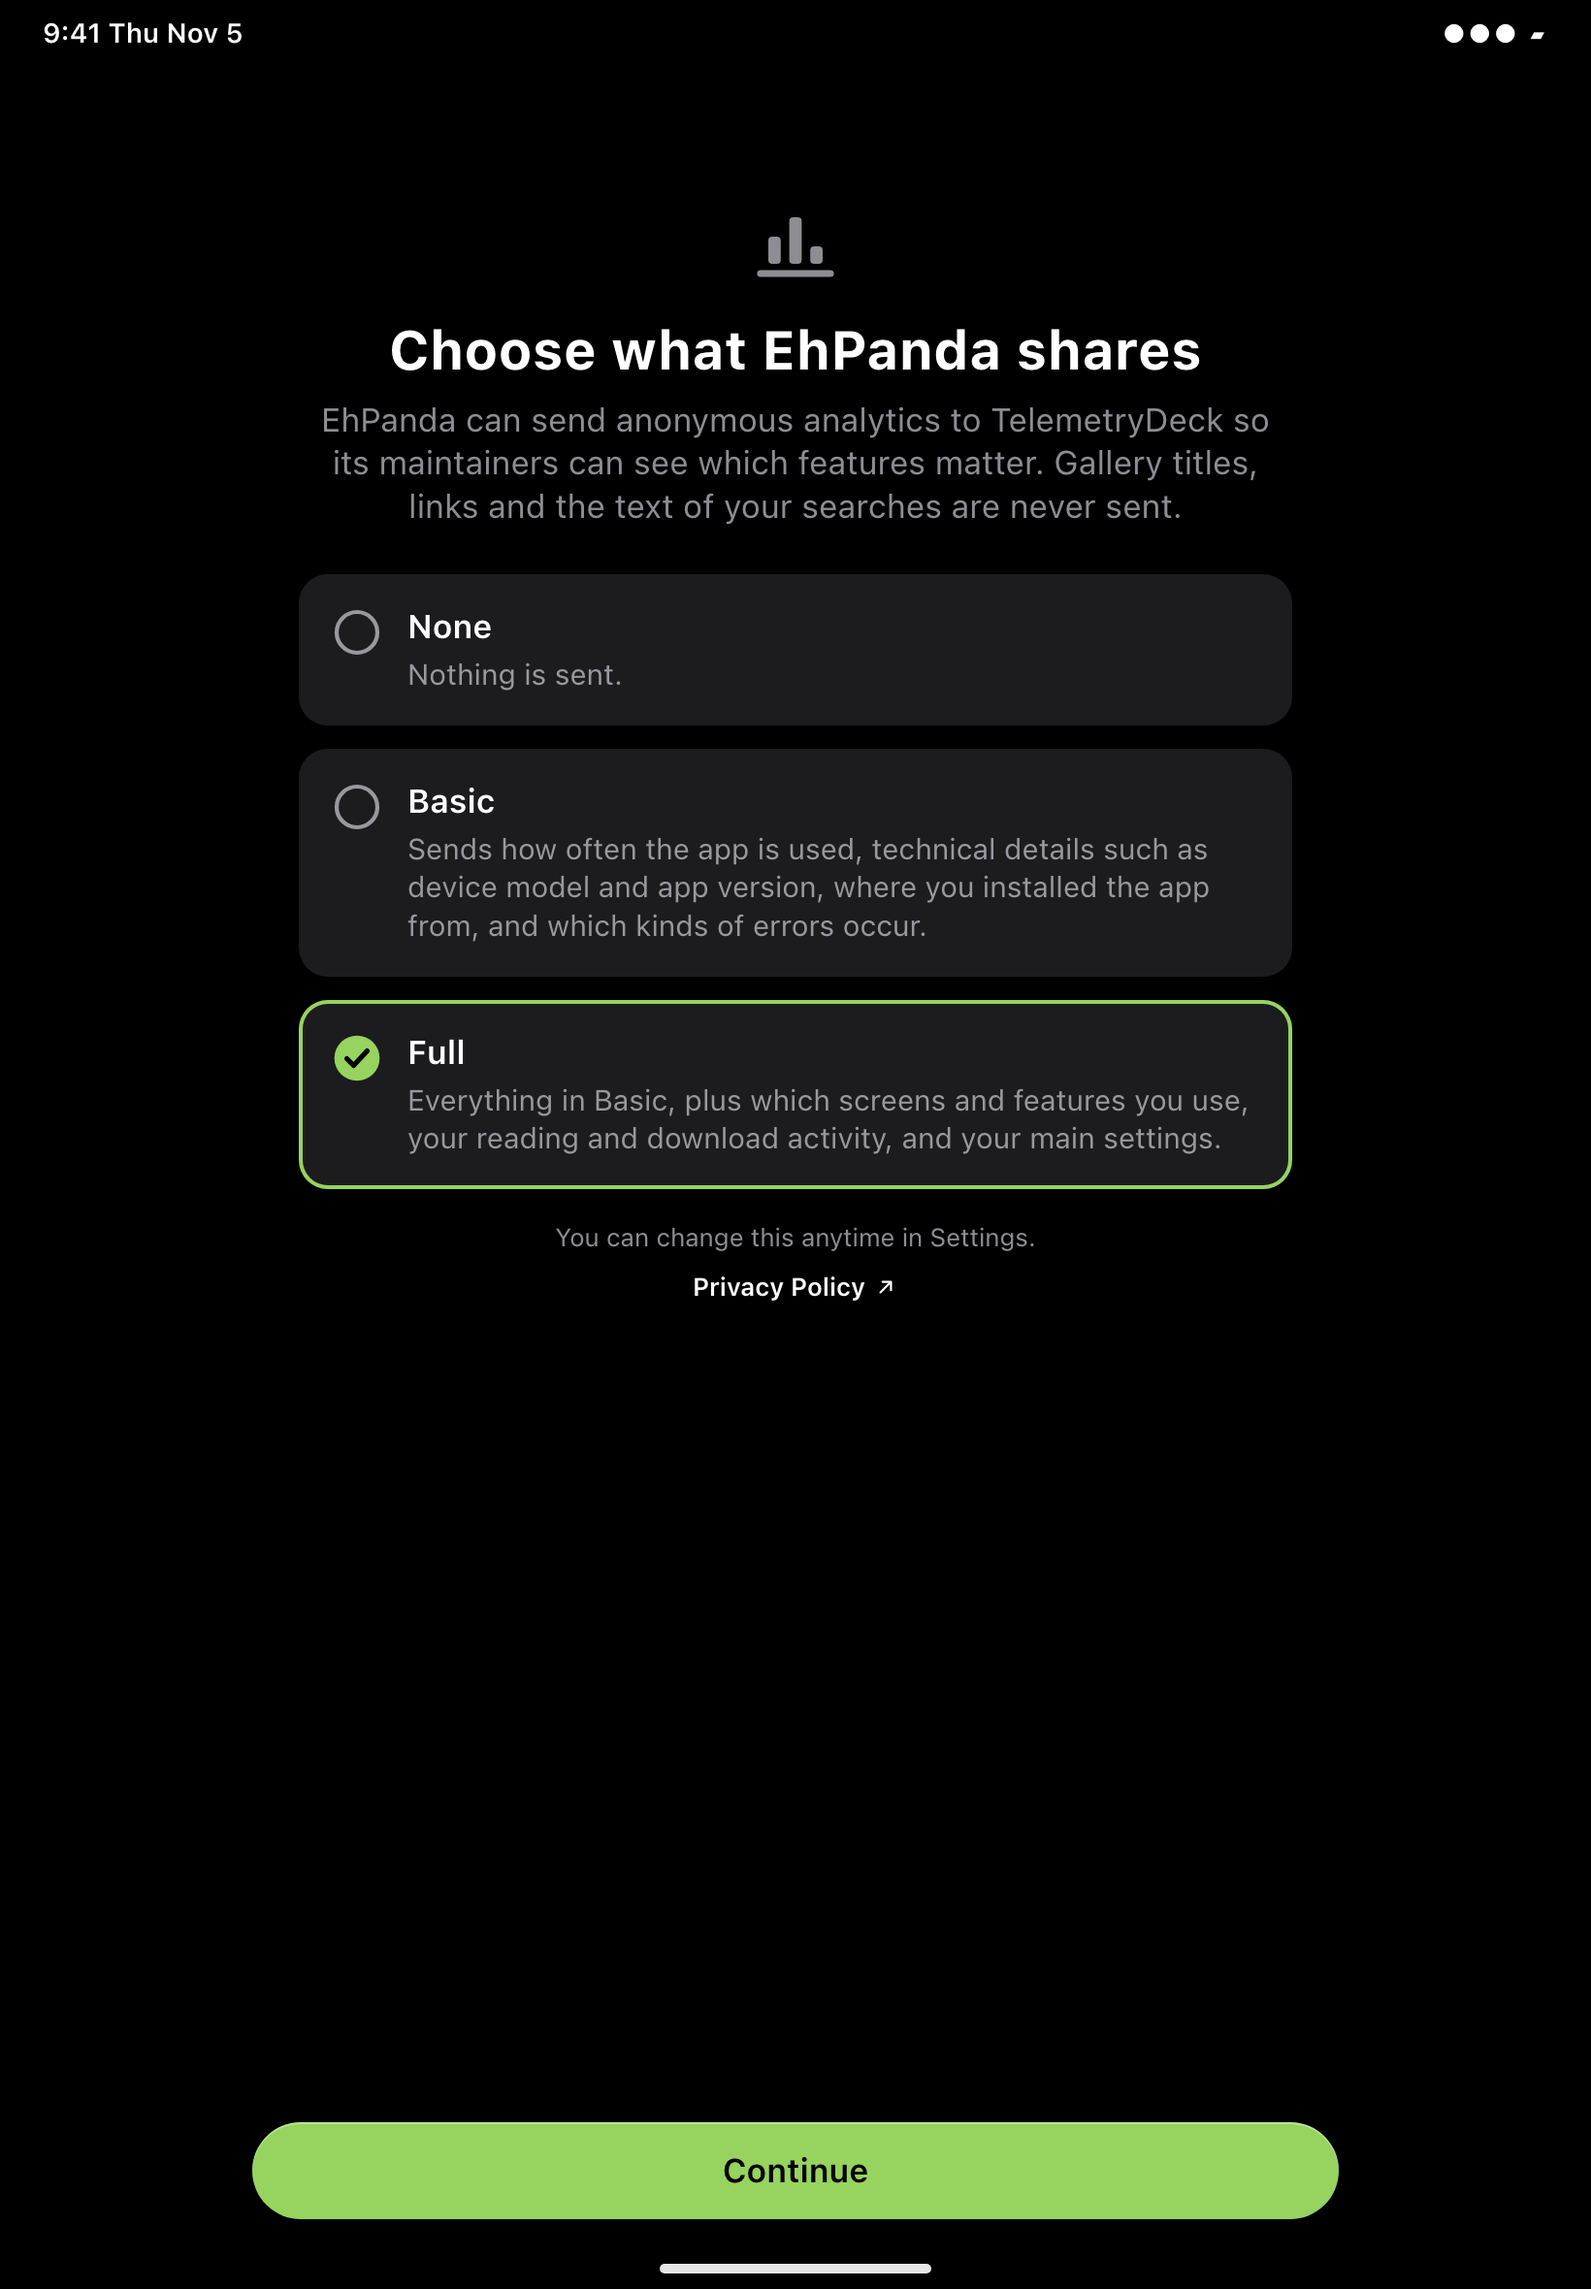
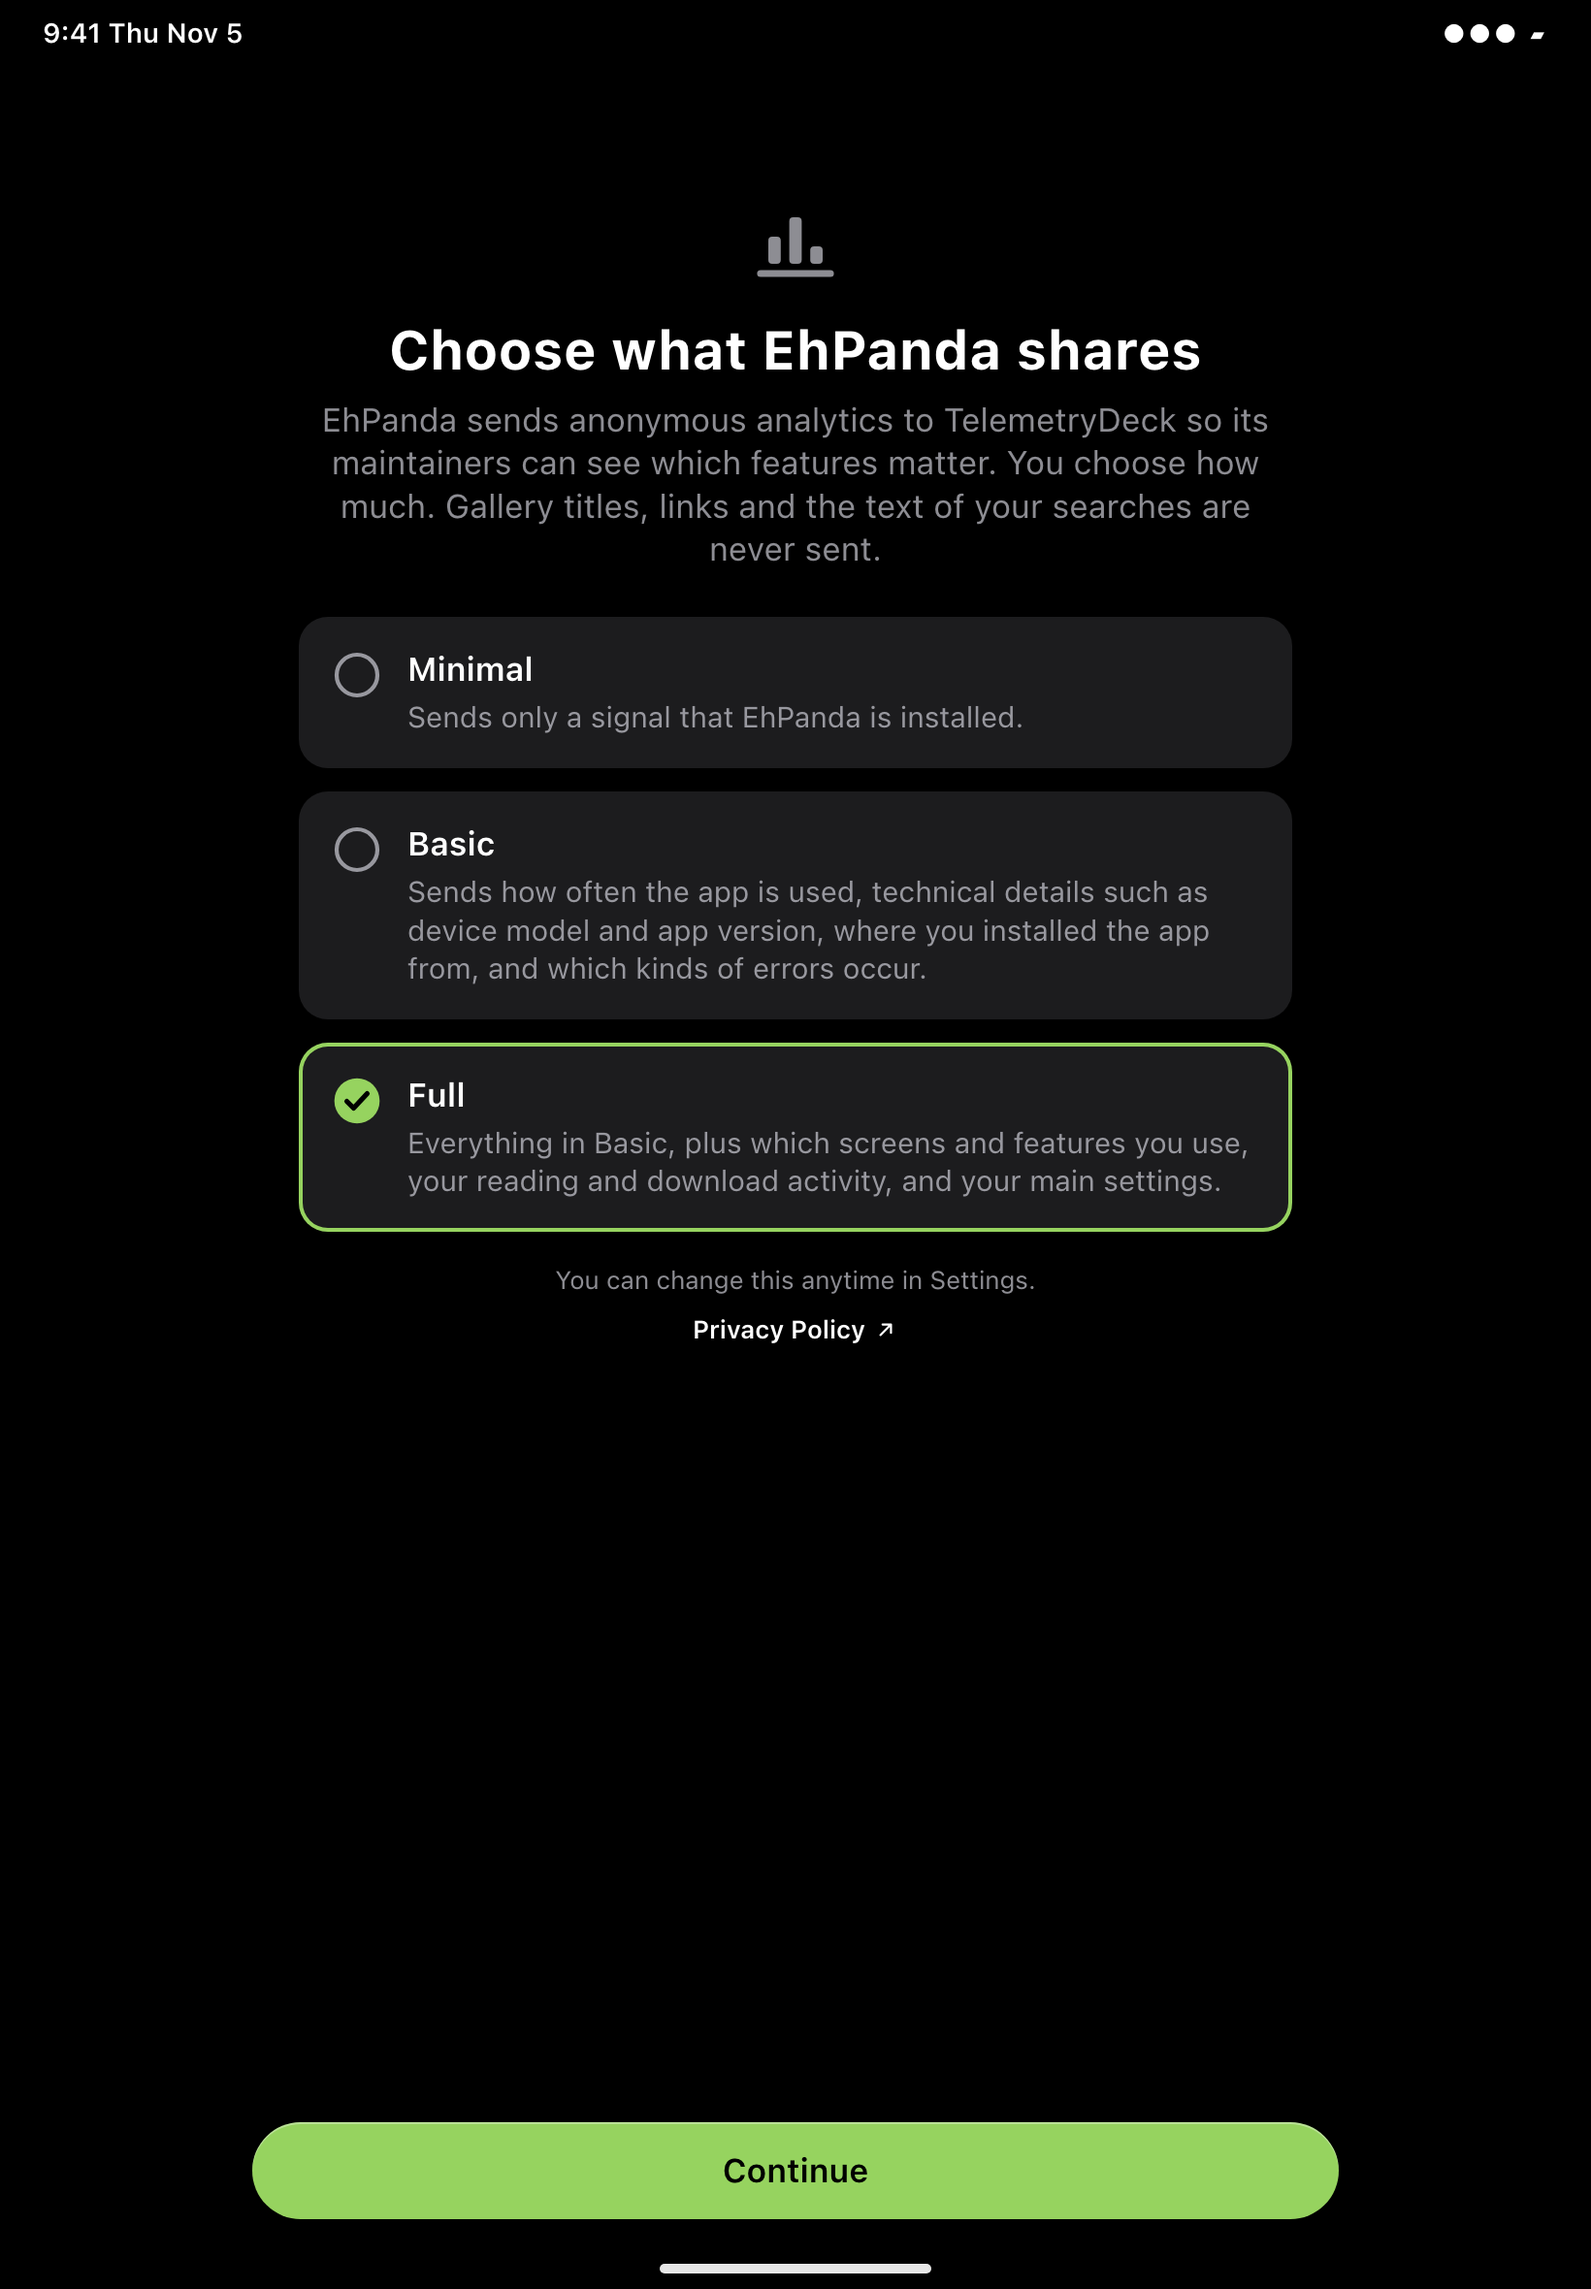
docs(18): update the designer's UI spec and mockups for Minimal and Account

Changed region(s): [[0.1866, 0.1547, 0.8085, 0.5877]]

diff --git a/.planning/phases/18-in-app-3-0-readiness-age-wall-analytics-choice-comment-moder/18-UI-SPEC.md b/.planning/phases/18-in-app-3-0-readiness-age-wall-analytics-choice-comment-moder/18-UI-SPEC.md
@@ -12,7 +12,8 @@ author: Colo (design)
 
 > Visual and interaction contract for the Phase 18 screens: the age wall, the analytics choice, the comment
 > report and block UI (menu items, confirmations, posting warning, collapsed row) and the Settings changes
-> (analytics picker, Privacy Policy row, Blocked Users list). Written by Colo for D-17.
+> (analytics picker and Privacy Policy row in General; Blocked Users row and list in Account). Written by Colo for
+> D-17. Revised after owner msg 1795: None → Minimal, Blocked Users moved to Account.
 >
 > **Contract nature: new screens inside a shipped design language.** Nothing here restyles an existing screen.
 > New screens reuse the app's system typography, its existing AccentColor, its 15pt card radius and its existing
@@ -21,7 +22,7 @@ author: Colo (design)
 >
 > Sources: 18-CONTEXT.md D-03…D-17 and DD-06…DD-10, the two approved copy files, and the current code
 > (`CommentsView.swift`, `DetailView+CommentCells.swift`, `DetailView+Subviews.swift` CommentsSection,
-> `PostCommentView.swift`, `GeneralSettingView.swift`, `AppearanceSettingView.swift`, `AppComponents/*`,
+> `PostCommentView.swift`, `GeneralSettingView.swift`, `AccountSettingView.swift`, `AppearanceSettingView.swift`, `AppComponents/*`,
 > `App/Assets.xcassets/AccentColor.colorset`). Deployment target iOS 27 (`Package.swift`).
 >
 > Mockups: 22 frames in `mockups/` beside this file (PNG, 2x), also published as an artifact. Frames are
@@ -56,7 +57,7 @@ Non-exhaustive for SwiftUI itself; the executor may use any SwiftUI API that mee
 
 | Component | Import path | Use in this phase |
 |-----------|-------------|-------------------|
-| `View.withArrow()` | AppComponents/ViewModifiers.swift | Blocked Users row in General Settings (chevron, AX-hidden) |
+| `View.withArrow()` | AppComponents/ViewModifiers.swift | Blocked Users row in Account settings (chevron, AX-hidden) |
 | `AdaptiveStack` / explicit `ViewThatFits(in: .horizontal)` | AppComponents/AdaptiveStack.swift | Collapsed-row layout switch (explicit `ViewThatFits`, because the label has its own line limit — see that file's rule) |
 | `SheetCloseToolbar` | AppComponents/SheetCloseToolbar.swift | Close button of the in-app report web sheet, if that route is used (see C-4) |
 | `AppAlertState` / `.appAlert` or TCA `AlertState` | AppComponents/AppAlertState.swift | Report, Block and posting-warning alerts |
@@ -157,8 +158,8 @@ system menu-picker look, exactly like the existing Theme picker.
   These glyphs always sit on the card colour, never directly on the grouped background (#669D34 on #F2F2F7 is 2.9:1).
 - Disabled Continue: system dimming of `.glassProminent` with `.disabled(true)`; disabled controls are exempt, and
   the state is also announced ("dimmed") and hinted (`age_wall.continue_hint`).
-- Increase Contrast: no custom handling needed; all colours are semantic or the asset (add a high-contrast variant to
-  nothing). Smart Invert: the app icon on the age wall gets `.accessibilityIgnoresInvertColors()`.
+- Increase Contrast: no custom handling needed; all colours are semantic or the asset (no high-contrast
+  variants needed). Smart Invert: the app icon on the age wall gets `.accessibilityIgnoresInvertColors()`.
 
 ---
 
@@ -176,7 +177,7 @@ the catalog may rename them, never the text. Nothing on any screen below may say
 | Continue hint while dimmed (VoiceOver) | `age_wall.continue_hint` (age wall only — see C-2) |
 | Age wall footnote (always visible) | `age_wall.footnote` |
 | Analytics title / body | `consent.title` / `consent.body` |
-| Level names / descriptions | `consent.level.{none,basic,full}` / `…description` |
+| Level names / descriptions | `consent.level.{minimal,basic,full}` / `…description`. **Minimal's name and description, the Settings footer that reuses it and `consent.body` are being redrafted by Camo for owner approval (owner msg 1795, Ato msg 1796).** Mockups show Camo's draft (msg 1797, not yet approved); use the approved text when it lands. Layout does not change with it |
 | Analytics footer | `consent.footer` |
 | Privacy link (both places) | `consent.privacy_link` |
 | Settings analytics row | `shareAnalyticsData` (existing key, now a picker); section header `analytics` (existing) |
@@ -269,7 +270,7 @@ your mind, and a shared Continue keeps both first-launch screens one pattern.
    32pt from top (72pt regular width).
 2. 16pt · Title `consent.title`, `.title.bold()`, centred, `.isHeader`.
 3. 8pt · Body `consent.body`, `.body`, `.secondary`, centred.
-4. 24pt · **Three `ChoiceCard`s**, order None, Basic, Full (owner's order), 12pt apart, all identical in size rules,
+4. 24pt · **Three `ChoiceCard`s**, order Minimal, Basic, Full (owner's order; Minimal replaces None, owner msg 1795), 12pt apart, all identical in size rules,
    type and colour while unselected — no badge, no "recommended", no different weight.
    - Card: `secondarySystemGroupedBackground`, radius 15, padding 16, full width, whole card tappable,
      `.hoverEffect(.highlight)` as C-2.
@@ -321,7 +322,7 @@ Existing swipe actions (vote up/down, edit) are unchanged.
 ({site} + %@ filled). Buttons: `cancel` (role `.cancel`), `comment.report.open` (no role). On Open: open the
 gallery's report page (`?report=select`). Route is the developer's call:
 in-app sheet that carries the app's sign-in (large detent, `SheetCloseToolbar`, no title) is preferred because the
-site's form needs the session; the default browser is acceptable. The copy fits both.
+site's form needs the session — `AccountSettingView` already presents `WebView(url:)` in a sheet this way; the default browser is acceptable. The copy fits both.
 
 **Block confirmation** [07]: alert. Title `comment.block.confirm_title`, message `comment.block.confirm_body`.
 Buttons: `cancel` (`.cancel`), `comment.block.confirm` (`.destructive`). Alerts (not confirmation dialogs) for both
@@ -399,9 +400,13 @@ The existing Analytics section, rebuilt:
 
 Changing the level takes effect immediately (DD-09). No confirmation when lowering or raising.
 
-### C-10 · Settings → General: Blocked Users row [12, 13]
+### C-10 · Settings → Account: Blocked Users row [23, 24]
 
-- New section directly **below** the Analytics section, no header, no footer.
+- Lives in **Account** settings (owner msg 1795), not General. New `Section` placed after the account section
+  (website picker, log in/out, host settings…) and before the cookie section, no header, no footer. Shown
+  **signed in and signed out** — blocking is local and works without an account.
+- Push goes through `SettingPath` like the other Account pushes (a `.delegate(.pushBlockedUsers)` beside
+  `.pushEhSetting`).
 - `Button(blocked_users) { push }` `.foregroundStyle(.primary)` `.withArrow()` with a trailing count before the
   chevron: `Text(count, format: .number)` `.foregroundStyle(.secondary)` `.monospacedDigit()`. Count is shown at 0 too.
 - Accessibility: one element, label `blocked_users`, value = the count.
@@ -478,10 +483,11 @@ Applicable state considerations resolved: 21 covered, 3 backstop, 0 unresolved.
 
 01 age wall light, unticked · 02 age wall dark, ticked · 03 analytics light, nothing picked · 04 analytics dark,
 Basic · 05 comment menu · 06 report confirmation · 07 block confirmation dark · 08 collapsed row · 09 revealed row +
-Unblock menu, dark · 10 posting warning · 11 Detail strip collapsed card · 12 Settings light · 13 Settings dark, None,
-0 blocked · 14 Blocked Users with swipe · 15 Blocked Users empty, dark · 16/17 age wall AX5 top/bottom · 18 analytics
+Unblock menu, dark · 10 posting warning · 11 Detail strip collapsed card · 12 General settings light (analytics) · 13 General settings dark,
+Minimal · 14 Blocked Users with swipe · 15 Blocked Users empty, dark · 16/17 age wall AX5 top/bottom · 18 analytics
 AX5 · 19 collapsed row AX5 · 20 iPad age wall landscape · 21 iPad analytics portrait dark · 22 iPad comments with a
-pointer (hover on `…`, menu open, collapsed row on one line).
+pointer (hover on `…`, menu open, collapsed row on one line) · 23 Account settings light, signed in, Blocked
+Users row · 24 Account settings dark, signed out, nobody blocked.
 
 ---
 
